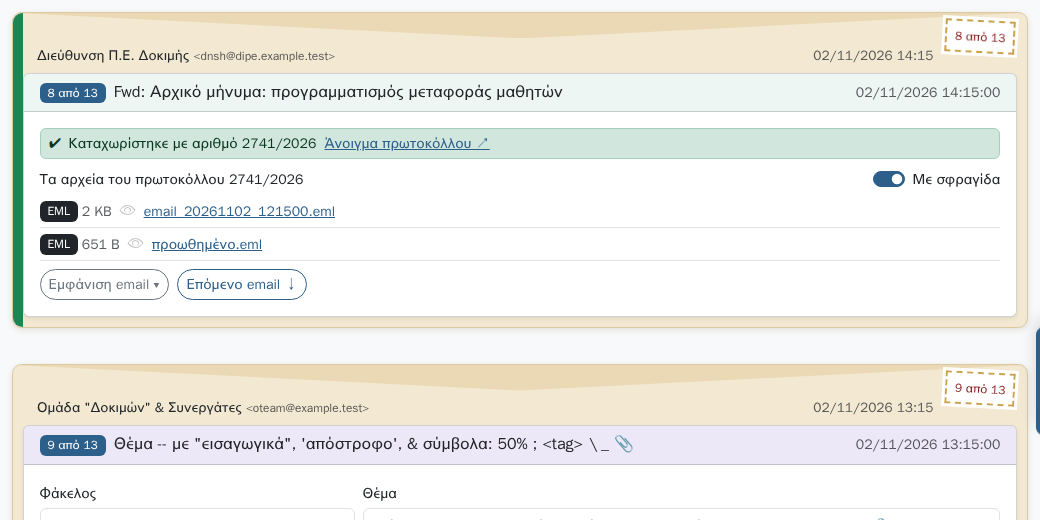
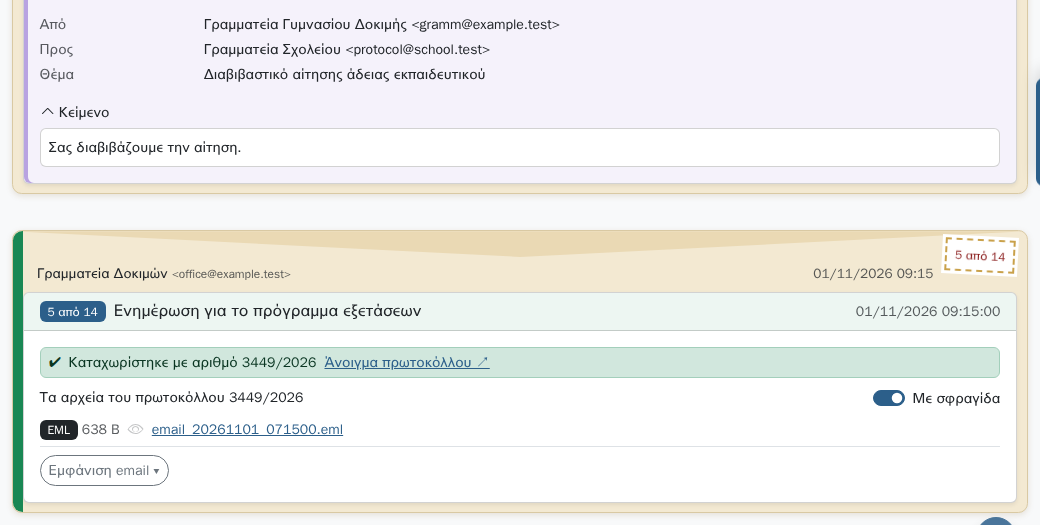
R5x: the browser test registers its own mock e-mail
Any e-mail it registered was one fewer for the other tests (the smoke test wants at least 3 left). make-emails.php adds 98-registered-mark to the mock mailbox only (not a fixture), dated oldest so it is never the first e-mail other tests take. Full browser suite green locally (139).

diff --git a/e2e/tests/inbox.spec.js b/e2e/tests/inbox.spec.js
@@ -580,7 +580,7 @@ test('the inbox has the back-to-top button (R5w)', async ({ page }) => {
 
 // R5x (owner, 2026-11-26): a registered e-mail gets a green stripe down the left of its envelope, in every look (and the
 // card's left border in «Καμία»); the others on the page have none. Photographed in the four looks, without reloading.
-// Last in this file: it registers synthetic e-mail 06 (no other test uses it), one e-mail fewer for the tests above.
+// It registers the mock mailbox's 98-registered-mark (make-emails.php), there for this test only: the other tests keep theirs.
 test('a registered e-mail is marked with a green stripe on the left, in every look (R5x)', async ({ page }) => {
   await login(page, 'writer');
   const clear = () => page.evaluate(async () => {
@@ -598,7 +598,7 @@ test('a registered e-mail is marked with a green stripe on the left, in every lo
   try {
     await openInbox(page);
     await choose('airmail');
-    const message = await findEmail(page, 'μεταφοράς μαθητών');   // synthetic e-mail 06
+    const message = await findEmail(page, 'πρόγραμμα εξετάσεων');   // 98-registered-mark, for this test only
     const uid = await message.getAttribute('data-uid');
     const envelope = page.locator(`[wire\\:key="env-${uid}"]`);
     await expect(page.locator('.is-saved')).toHaveCount(0);
@@ -625,9 +625,11 @@ test('a registered e-mail is marked with a green stripe on the left, in every lo
         await expect.poll(() => saved.evaluate((el) => getComputedStyle(el, '::after').backgroundColor)).toBe(green);
         expect(await saved.evaluate((el) => parseFloat(getComputedStyle(el, '::after').width))).toBeGreaterThan(6);
       }
-      await saved.evaluate((el) => { el.scrollIntoView({ block: 'start', behavior: 'instant' }); window.scrollBy({ top: -90, behavior: 'instant' }); });
+      // with the end of the e-mail above (not marked), for comparison
+      await saved.evaluate((el) => { el.scrollIntoView({ block: 'end', behavior: 'instant' }); window.scrollBy({ top: 60, behavior: 'instant' }); });
       const box = await saved.boundingBox();
-      await evidence(page, `r5x-${look}`, { clip: { x: box.x - 12, y: Math.max(0, box.y - 12), width: box.width + 24, height: 520 } });
+      const top = Math.max(0, box.y - 230);
+      await evidence(page, `r5x-${look}`, { clip: { x: box.x - 12, y: top, width: box.width + 24, height: box.y + box.height + 12 - top } });
     }
   } finally {
     await clear();

diff --git a/docker/dev/make-emails.php b/docker/dev/make-emails.php
@@ -345,5 +345,13 @@ if ($preloadDir) {
         ],
     ]);
     file_put_contents("$inbox/99-large-attachment.eml", $big);
-    echo 'Mock mailbox preloaded: ' . (count($sources) + 1) . " emails -> $inbox\n";
+    // R5x: registered by its browser test only, so the other tests keep every e-mail they count on (mock server only);
+    // the oldest, so it is never the first of the inbox (newest first), which other tests take (R5l marks it read)
+    file_put_contents("$inbox/98-registered-mark.eml", buildEml([
+        'id' => 'mark', 'case' => 'registered-mark', 'fromAddr' => 'office@example.test',
+        'from' => b64h('Γραμματεία Δοκιμών') . ' <office@example.test>', 'to' => $to,
+        'subject' => b64h('Ενημέρωση για το πρόγραμμα εξετάσεων'), 'date' => date(DATE_RFC2822, $base - 86400),
+        'parts' => [['type' => 'text/plain', 'charset' => 'UTF-8', 'cte' => '8bit', 'body' => "Σας στέλνουμε το πρόγραμμα των εξετάσεων.\n"]],
+    ]));
+    echo 'Mock mailbox preloaded: ' . (count($sources) + 2) . " emails -> $inbox\n";
 }

diff --git a/docs/reports/R5x.md b/docs/reports/R5x.md
@@ -22,7 +22,7 @@ at the left of the envelope.»
 
 | Air mail | Paper |
 |---|---|
-| ![Air mail: registered e-mail with the green stripe, the next one without](img/R5x/r5x-airmail.png) | ![Paper envelope with the green stripe](img/R5x/r5x-paper.png) |
+| ![Air mail: registered e-mail with the green stripe, the one above without](img/R5x/r5x-airmail.png) | ![Paper envelope with the green stripe](img/R5x/r5x-paper.png) |
 | **Plain** | **None** |
 | ![Plain envelope with the green stripe](img/R5x/r5x-plain.png) | ![No envelope: the card's green left border](img/R5x/r5x-none.png) |
 
@@ -30,12 +30,11 @@ at the left of the envelope.»
 - PHPUnit: `InboxTest::test_a_registered_email_is_marked_in_any_look`: nothing is marked before; after registering
   e-mail 1 and marking e-mail 2 read, only e-mail 1 is marked, in the air-mail look and in «none». The whole
   `InboxTest` is green (48 tests).
-- Browser (`inbox.spec.js`, R5x, last in the file): synthetic e-mail 06, which no other test uses, is registered, then
-  the look is switched from the user menu (air mail → paper → plain → none, without reloading). Each time the
+- Browser (`inbox.spec.js`, R5x): an invented e-mail added to the mock mailbox for this test only
+  (`98-registered-mark`, made by `docker/dev/make-emails.php`, not a fixture) is registered, then the look is switched from the user menu (air mail → paper → plain → none, without reloading). Each time the
   registered envelope has the green stripe (the Bootstrap success colour, wider than 6 px), no other e-mail on the page
-  is marked, and a screenshot is taken. It runs last because each registration leaves one e-mail fewer for the tests
-  before it (the first CI run, with the test in `inbox-envelopes.spec.js` registering the first e-mail, broke three
-  of them).
+  is marked, and a screenshot is taken. Its own e-mail because each registration leaves one e-mail fewer: in the first CI
+  runs, registering an e-mail other tests use broke them (R5a, R5j, R5o, then the smoke test's «at least 3»).
 
 ## Owner actions
 None. To try it: step 109 in [OWNER-TODO.md](../../OWNER-TODO.md).
